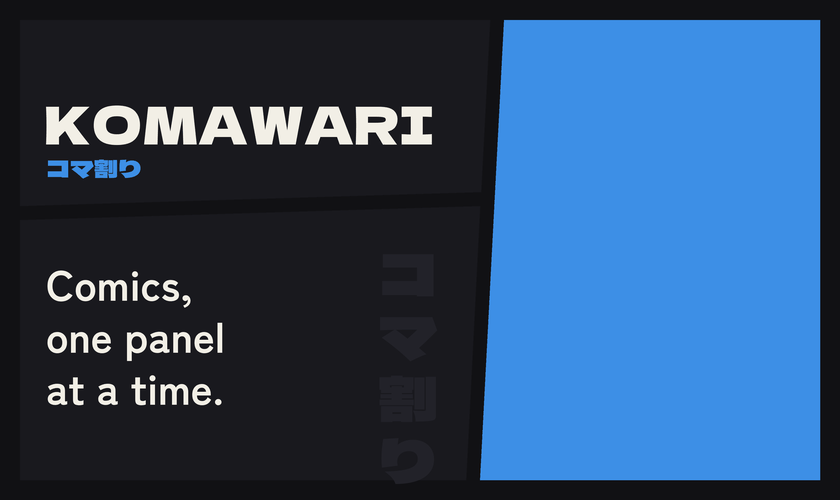
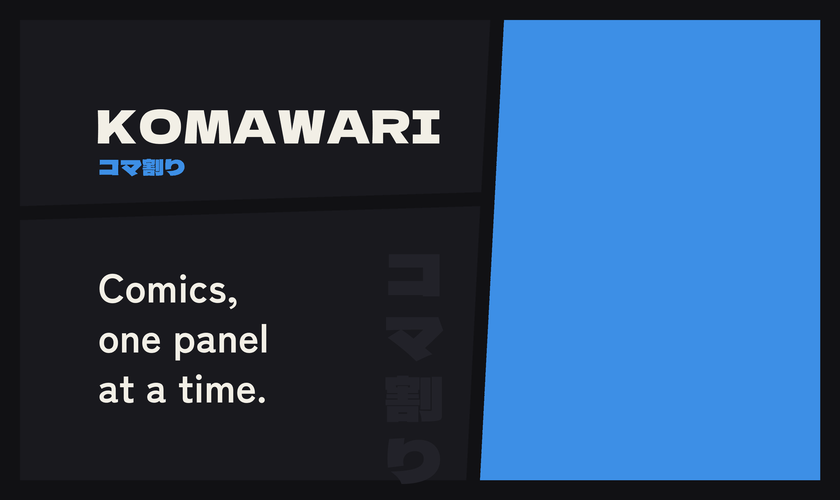
Remember the reading place in every comic and move the home screen lettering clear of the system title

Changed region(s): [[0.031, 0.21, 0.5262, 0.36], [0.031, 0.54, 0.3405, 0.72], [0.031, 0.75, 0.3095, 0.81]]

diff --git a/index.html b/index.html
@@ -367,6 +367,7 @@ uv run komawari transfer
 </tbody>
 </table>
 <p>With only one comic on the Vita, it opens straight away. With three or more, the covers go round: after the last comic comes the first again.</p>
+<p>Komawari remembers your place. Each comic opens where you stopped reading it, and the shelf opens on the comic you read last.</p>
 <p>A tall page that is shown whole, such as a cover, is small on the Vita's wide screen. Hold the Vita upright, like a book, and the page turns with it and fills the screen.</p>
 <h2 id="commands">Commands</h2>
 <p>Run them in the <code>komawari</code> folder.</p>

diff --git a/reader/reading.c b/reader/reading.c
@@ -5,6 +5,7 @@
 #include "input.h"
 #include "motion.h"
 #include "pages.h"
+#include "place.h"
 #include "screen.h"
 #include "shot.h"
 
@@ -30,6 +31,11 @@ typedef struct {
     int view;       /* index of the panel shown; 0 on a page without panels */
     int whole_page; /* 1 while the whole page is shown instead of one panel */
     int turn;       /* how the Vita is held, as input_turn tells it */
+
+    /* The place last written to the memory card, so that it is only written
+       again when the reader has moved on. */
+    int saved_page;
+    int saved_view;
 
     /* What is on screen. The picture glides from one shot to another. While
        the picture of the page being read is still loading, the page that was
@@ -82,6 +88,17 @@ static void step_back(Reading *reading)
         reading->page -= 1;
         reading->view = view_count(current_page(reading)) - 1;
     }
+}
+
+/* Writes the reader's place to the memory card, if it moved since the last time. */
+static void save_place(Reading *reading)
+{
+    if (reading->page == reading->saved_page && reading->view == reading->saved_view) {
+        return;
+    }
+    place_save(reading->comic_dir, reading->page, reading->view);
+    reading->saved_page = reading->page;
+    reading->saved_view = reading->view;
 }
 
 /* The shot on screen right now, which may be part of the way through a glide. */
@@ -381,6 +398,18 @@ ReadingEnd reading_run(SDL_Window *window, SDL_Renderer *renderer, const char *c
         book_free(&reading.book);
         return READING_ENDED_BACK;
     }
+    /* Carry on where the reader stopped the last time, if the comic still has that place. */
+    place_load(comic_dir, &reading.page, &reading.view);
+    if (reading.page < 0 || reading.page >= reading.book.page_count) {
+        reading.page = 0;
+        reading.view = 0;
+    }
+    if (reading.view < 0 || reading.view >= view_count(current_page(&reading))) {
+        reading.view = 0;
+    }
+    reading.saved_page = reading.page;
+    reading.saved_view = reading.view;
+
     reading.shown_page = -1;
     reading.turn = input_turn();
     ask_for_page(&reading, SDL_GetTicks());
@@ -397,6 +426,9 @@ ReadingEnd reading_run(SDL_Window *window, SDL_Renderer *renderer, const char *c
                                             motion_running(reading.fade_start, FADE_MS, now))) {
             pages_take_loaded(reading.pages);
             show_page_if_ready(&reading);
+            /* The place is saved here as well, a moment after each step and
+               not only on leaving: the Vita can close the reader without warning. */
+            save_place(&reading);
             now = SDL_GetTicks();
         }
         draw_frame(&reading, now);
@@ -424,6 +456,7 @@ ReadingEnd reading_run(SDL_Window *window, SDL_Renderer *renderer, const char *c
         }
     }
 
+    save_place(&reading);
     pages_close(reading.pages);
     book_free(&reading.book);
     return end;

diff --git a/reader/place.c b/reader/place.c
@@ -1,0 +1,82 @@
+#include "place.h"
+
+#include <SDL.h>
+
+#include "file.h"
+
+/* In the folder of all comics: the folder name of the comic read last. */
+#define LAST_COMIC_FILE "last-comic.txt"
+/* In a comic's folder: its page and view, counted from 1, as in "12 3". */
+#define PLACE_FILE "place.txt"
+
+/* Writes a short text file. A failure only costs the reader its saved place,
+   so it is logged and otherwise ignored. */
+static void write_text(const char *path, const char *text)
+{
+    SDL_RWops *file = SDL_RWFromFile(path, "w");
+    if (file == NULL) {
+        SDL_Log("Cannot write %s: %s", path, SDL_GetError());
+        return;
+    }
+    SDL_RWwrite(file, text, 1, SDL_strlen(text));
+    SDL_RWclose(file);
+}
+
+/* The last part of a path: a comic's folder name. */
+static const char *folder_name(const char *dir)
+{
+    const char *slash = SDL_strrchr(dir, '/');
+    return slash != NULL ? slash + 1 : dir;
+}
+
+int place_last_comic(const Library *library, const char *library_dir)
+{
+    char path[1024];
+    SDL_snprintf(path, sizeof(path), "%s/%s", library_dir, LAST_COMIC_FILE);
+    size_t size;
+    char *name = file_read(path, &size);
+    if (name == NULL) {
+        return 0;
+    }
+    int last = 0;
+    for (int i = 0; i < library->count; i++) {
+        if (SDL_strcmp(folder_name(library->comic_dirs[i]), name) == 0) {
+            last = i;
+        }
+    }
+    SDL_free(name);
+    return last;
+}
+
+void place_remember_comic(const char *library_dir, const char *comic_dir)
+{
+    char path[1024];
+    SDL_snprintf(path, sizeof(path), "%s/%s", library_dir, LAST_COMIC_FILE);
+    write_text(path, folder_name(comic_dir));
+}
+
+void place_load(const char *comic_dir, int *page, int *view)
+{
+    char path[1024];
+    SDL_snprintf(path, sizeof(path), "%s/%s", comic_dir, PLACE_FILE);
+    size_t size;
+    char *text = file_read(path, &size);
+    if (text == NULL) {
+        return;
+    }
+    int saved_page, saved_view;
+    if (SDL_sscanf(text, "%d %d", &saved_page, &saved_view) == 2) {
+        *page = saved_page - 1;
+        *view = saved_view - 1;
+    }
+    SDL_free(text);
+}
+
+void place_save(const char *comic_dir, int page, int view)
+{
+    char path[1024];
+    char text[32];
+    SDL_snprintf(path, sizeof(path), "%s/%s", comic_dir, PLACE_FILE);
+    SDL_snprintf(text, sizeof(text), "%d %d\n", page + 1, view + 1);
+    write_text(path, text);
+}

diff --git a/src/komawari/artwork.py b/src/komawari/artwork.py
@@ -81,7 +81,10 @@ TEXT_FONT = "ZenKakuGothicNew-Bold.ttf"
 #
 # The Vita also lays a row of its own round icons over the top edge of the
 # page. The name panel is tall, and the name sits low in it, so that those
-# icons do not cover the name.
+# icons do not cover the name. And when the PS button is pressed, the Vita
+# writes the reader's title down the left edge of the page; the lettering
+# starts at PAGE_TEXT_LEFT, to the right of that.
+PAGE_TEXT_LEFT = 96
 PAGE_NAME: Shape = [(20, 20), (490, 20), (481, 192), (20, 206)]
 PAGE_TAGLINE: Shape = [(20, 220), (480.2, 206), (466, 480), (20, 480)]
 PAGE_START: Shape = [(504, 20), (820, 20), (820, 480), (480, 480)]
@@ -125,14 +128,14 @@ def _page(fonts_dir: Path) -> Image.Image:
 
     # Top-left panel: the name, with its Japanese spelling under it. Both sit
     # in the lower part of the panel, clear of the Vita's own icons.
-    canvas.text(44, 84, APP_NAME, NAME_FONT, 52, PAPER, "la")
-    canvas.text(46, 150, APP_NAME_JAPANESE, NAME_FONT, 24, ACCENT, "la")
+    canvas.text(PAGE_TEXT_LEFT, 90, APP_NAME, NAME_FONT, 46, PAPER, "la")
+    canvas.text(PAGE_TEXT_LEFT + 2, 150, APP_NAME_JAPANESE, NAME_FONT, 22, ACCENT, "la")
 
     # Bottom-left panel: the tagline, and the Japanese name running down the edge, barely visible.
     for row, character in enumerate(APP_NAME_JAPANESE):
-        canvas.text(408, 228 + row * 62, character, NAME_FONT, 60, INK_LIGHTER, "ma")
+        canvas.text(414, 228 + row * 62, character, NAME_FONT, 60, INK_LIGHTER, "ma")
     for row, line in enumerate(TAGLINE_LINES):
-        canvas.text(46, 252 + row * 52, line, TEXT_FONT, 42, PAPER, "la")
+        canvas.text(PAGE_TEXT_LEFT + 2, 256 + row * 50, line, TEXT_FONT, 40, PAPER, "la")
     return canvas.finished()
 
 

diff --git a/reader/place.h b/reader/place.h
@@ -1,0 +1,24 @@
+/* Remembers where the reader stopped: which comic was read last, and the page
+   and panel in every comic. Each is a small text file on the memory card, so
+   it is still there after the reader was closed. */
+#ifndef KOMAWARI_PLACE_H
+#define KOMAWARI_PLACE_H
+
+#include "library.h"
+
+/* The index in the library of the comic that was read last, or 0 if there is
+   none, or if it is no longer there. */
+int place_last_comic(const Library *library, const char *library_dir);
+
+/* Notes that this comic is the one being read. */
+void place_remember_comic(const char *library_dir, const char *comic_dir);
+
+/* Reads the place in a comic into page and view, both counted from 0. They
+   are left as they are if no place was saved. The caller checks that the
+   comic still has such a page and view. */
+void place_load(const char *comic_dir, int *page, int *view);
+
+/* Saves the place in a comic. */
+void place_save(const char *comic_dir, int page, int view);
+
+#endif

diff --git a/reader/main.c b/reader/main.c
@@ -9,6 +9,7 @@
 #include "draw.h"
 #include "input.h"
 #include "library.h"
+#include "place.h"
 #include "reading.h"
 #include "screen.h"
 #include "shelf.h"
@@ -71,7 +72,8 @@ int main(int argc, char *argv[])
         return 1;
     }
 
-    int chosen = 0;
+    /* The shelf opens on the comic that was read last. */
+    int chosen = place_last_comic(&library, library_dir);
     /* With a single comic there is nothing to choose, so it opens straight away.
        The shelf is still where the user lands when leaving that comic. */
     int skip_shelf = library.count == 1;
@@ -83,6 +85,7 @@ int main(int argc, char *argv[])
             }
         }
         skip_shelf = 0;
+        place_remember_comic(library_dir, library.comic_dirs[chosen]);
         if (reading_run(window, renderer, library.comic_dirs[chosen]) == READING_ENDED_QUIT) {
             break;
         }

diff --git a/src/komawari/vita_card.py b/src/komawari/vita_card.py
@@ -92,7 +92,9 @@ def copy_comic(comic_dir: Path, card: Path) -> None:
     reader only lists a folder once that file is in it, so it never sees half a comic.
     """
     target_dir = card / COMICS_FOLDER / comic_dir.name
-    files = sorted(path for path in comic_dir.rglob("*") if path.is_file())
+    # place.txt is the reader's note of where its user stopped reading. It belongs
+    # to the Vita: a copy from this computer must not replace it.
+    files = sorted(path for path in comic_dir.rglob("*") if path.is_file() and path.name != "place.txt")
     files.sort(key=lambda path: path.name == "panels.json")  # False sorts before True
     for number, source in enumerate(files, start=1):
         target = target_dir / source.relative_to(comic_dir)

diff --git a/reader/reading.h b/reader/reading.h
@@ -17,7 +17,8 @@ typedef enum {
     READING_ENDED_QUIT  /* the user closed the reader */
 } ReadingEnd;
 
-/* Shows the comic in comic_dir until the user leaves it. */
+/* Shows the comic in comic_dir until the user leaves it. It starts where the
+   reader stopped the last time, and keeps that place saved (place.h). */
 ReadingEnd reading_run(SDL_Window *window, SDL_Renderer *renderer, const char *comic_dir);
 
 #endif

diff --git a/docs/notes.md b/docs/notes.md
@@ -20,6 +20,8 @@ The reader works in a window on the computer, in the Vita3K emulator and on a re
 
 ## Done last
 
+- The reader remembers the place in every comic and the comic read last (2026-10-11, `reader/place.c`). Tried in the desktop build: after closing and starting again, the shelf opens on the last comic and each comic opens at its page and panel.
+- The lettering on the page behind the bubble moved right and got a little smaller, clear of the title the Vita writes down the left edge when the PS button is pressed. Not seen on the Vita yet.
 - The shelf loads its covers in the background and keeps them between visits (2026-10-11, `reader/covers.c`). Tried only in the desktop build.
 - More comics prepared and copied to the Vita over FTP (2026-10-11), 17 in all now, 5.0 GB: digital manga volumes, scanned manga volumes, a single issue and an omnibus of western comics. Every file on the Vita was checked against its size here. None of the new ones has been opened on the Vita yet. Their archives showed four things `prepare` could not handle, now fixed in `src/komawari/archive.py` and `src/komawari/pages.py`: brackets in file names, pages inside a folder, first pages listed last, and page numbers written in other ways. See "What preparing a comic gives".
 - A tall page shown whole turns with the Vita (2026-10-11): held upright, it fills the screen. `reader/input.c` reads the motion sensor; `reader/shot.c` frames the page for the upright screen; `reader/reading.c` draws it turned. Tried only in the desktop build, where the Tab key stands in for turning the Vita. Not committed yet.
@@ -141,7 +143,7 @@ Built on 2026-10-11, tried only in the desktop build with 17 comics.
 - Texture memory. SDL keeps all pictures in one pool, as large as the Vita's free graphics memory when the first picture is made (the Vita has 128 MB of it in all). In 16-bit colour a normal page takes 9 MB, a spread 18 MB and the widest picture 21 MB. Four pictures are kept at most, so 84 MB at the very worst and about 27 MB in ordinary reading. If a picture loaded ahead does not fit, it is dropped and loaded again when the reader gets there; this path was never seen running.
 - The home-screen page was seen on the device: the Vita's own icons covered part of the name, which was then moved down (not yet seen again). The bubble was not judged; the preview (`build/artwork-preview.png`) places the pictures where Vita3K's source says the Vita puts them.
 - Try everything on Linux.
-- Older candidates: remember the place in each comic; controls that follow the reading direction.
+- Older candidate: controls that follow the reading direction.
 
 ## Open questions
 
@@ -228,7 +230,7 @@ The emulator:
 
 ## On the Vita: what the user's guide leaves out
 
-- Each comic is one folder in `ux0:data/komawari/`, holding `panels.json`, `cover.jpg`, `title.png` and `pages/`. The folder names are free; the reader lists every folder that holds a `panels.json`, sorted by name.
+- Each comic is one folder in `ux0:data/komawari/`, holding `panels.json`, `cover.jpg`, `title.png` and `pages/`. The reader adds `place.txt` to it, the page and panel where its user stopped ("12 3", counted from 1), and keeps `last-comic.txt` beside the folders, the folder name of the comic read last. Deleting those files makes the reader forget. The folder names are free; the reader lists every folder that holds a `panels.json`, sorted by name.
 - `komawari.vpk` can be installed from any folder on the card. After a new build, copy the new one over and install it the same way; the comics stay.
 - Copying over Wi-Fi instead of USB: in VitaShell press START, set "SELECT button" to "FTP" and press SELECT. VitaShell shows an address like `ftp://192.168.1.20:1337`. With an FTP program, copy the comic folders into `ux0:/data/komawari/` and `komawari.vpk` into `ux0:/data/`.
 - Copying over FTP was tried on a real Vita (2026-10-10): three volumes, 1.9 GB, at about 1.3 MB per second, so roughly 8 minutes per volume. Every file arrived with the right size.
@@ -326,6 +328,7 @@ Kumiko was chosen: an open licence, adjustable, and it keeps sound effects that 
 - Vita programs are built with CMake into a `.vpk` package. Running one needs a Vita with HENkaku, h-encore or similar.
 - The pictures for the home screen must be PNG files with a palette of at most 256 colours.
 - With the layout style `psmobile`, the Vita puts its start button at x 520 to 800, y 155 to 313 of the 840 x 500 page behind the bubble.
+- Seen on a Vita: the system lays a row of its own round icons over the top edge of that page, and with the PS button pressed it writes the program's title down the page's left edge. How wide those are was not measured; the lettering keeps about 80 pixels from the top and from the left.
 
 ## To check on Linux
 

diff --git a/docs/decisions.md b/docs/decisions.md
@@ -131,3 +131,6 @@ Decisions marked "kick-off" come from the planning conversation before the first
 | 2026-10-11 | Wide and colour pages are made 80% only when they come from a large scan, one at least twice as wide and high as the page made from it. A smaller scan keeps every pixel. | Owner's request when adding comics of lower quality: leave their pages at full size. A large scan shrunk to the Vita's page is very sharp and has pixels to spare; a page that is no larger than the Vita's page to begin with has none. |
 | 2026-10-11 | The shelf's covers and title pictures are loaded on a second thread, those nearest the middle first, and kept while a comic is read (`reader/covers.c`). The pictures of at most 25 comics are held. | Owner's request. Loading them all before showing the shelf took about 0.13 s per comic, every time the shelf opened. Kept in memory, they cost nothing on the way back from a comic. The limit leaves the graphics memory to the pages, however many comics there are. |
 | 2026-10-11 | No cache of ready-made covers on the memory card. | Asked about by the owner. Decoding a cover takes about 0.06 s; reading the same picture ready-made, 0.4 MB, would take about as long, so there is nothing to gain. |
+| 2026-10-11 | The reader remembers the place in every comic and the comic read last. It writes them a moment after each step, not only on leaving. | Owner's request. The Vita closes a program without telling it, so a place saved only on leaving would be lost. |
+| 2026-10-11 | A comic's place is a file in its own folder, `place.txt`; the comic read last is `last-comic.txt` beside the comics. `transfer` does not copy `place.txt`. | A file per comic needs no list to keep in step, and goes when the comic is removed. A place saved by the desktop reader must not replace the one on the Vita. |
+| 2026-10-11 | On the page behind the bubble the lettering starts further right and is a little smaller. | With the PS button pressed, the Vita writes the reader's title down the left edge of that page, over the lettering. |

diff --git a/README.md b/README.md
@@ -105,6 +105,8 @@ To add comics later, repeat part 2 and steps 1 to 4. Step 5 is only needed once.
 
 With only one comic on the Vita, it opens straight away. With three or more, the covers go round: after the last comic comes the first again.
 
+Komawari remembers your place. Each comic opens where you stopped reading it, and the shelf opens on the comic you read last.
+
 A tall page that is shown whole, such as a cover, is small on the Vita's wide screen. Hold the Vita upright, like a book, and the page turns with it and fills the screen.
 
 ## Commands
